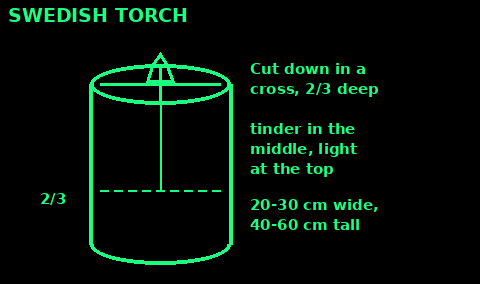
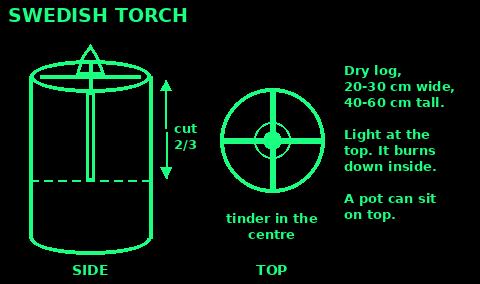
Redraw Swedish torch diagram with side and top views of the cross cut

diff --git a/tools/gen_guide7.py b/tools/gen_guide7.py
@@ -250,16 +250,26 @@ lines(d, 352, 52, ["logs as long", "as you", "", "fire in the gap", "", "eats wo
 save(im, "fire_long")
 
 im, d = new("SWEDISH TORCH")
-E(d, [90, 64, 230, 104], 4)                                                        # top
-L(d, [(90, 84), (90, 244)], 4); L(d, [(230, 84), (230, 244)], 4)
-d.arc([90, 224, 230, 264], 0, 180, fill=G, width=4)
-L(d, [(100, 84), (220, 84)], 3); L(d, [(160, 66), (160, 102)], 3)
-L(d, [(160, 104), (160, 190)], 2); dashed(d, (100, 190), (220, 190), 2)
-flame(d, 160, 82, 30, 14)
-t(d, (250, 60), "Cut down in a", 15); t(d, (250, 80), "cross, 2/3 deep", 15)
-t(d, (250, 120), "tinder in the", 15); t(d, (250, 140), "middle, light", 15); t(d, (250, 160), "at the top", 15)
-t(d, (250, 196), "20-30 cm wide,", 15); t(d, (250, 216), "40-60 cm tall", 15)
-t(d, (40, 190), "2/3", 15)
+# side view: log with the cross cut showing as a slot
+E(d, [30, 60, 150, 92], 4)                                                         # top
+L(d, [(30, 76), (30, 238)], 4); L(d, [(150, 76), (150, 238)], 4)
+d.arc([30, 222, 150, 254], 0, 180, fill=G, width=4)
+L(d, [(40, 76), (140, 76)], 4); L(d, [(90, 62), (90, 90)], 4)                 # cross on top
+d.rectangle([86, 92, 94, 180], outline=G, width=3)                               # cut slot
+dashed(d, (30, 180), (150, 180), 2)
+flame(d, 90, 74, 30, 14)
+arrow(d, (166, 128), (166, 80), 2); arrow(d, (166, 132), (166, 178), 2)
+t(d, (174, 120), "cut", 13); t(d, (174, 136), "2/3", 13)
+t(d, (90, 262), "SIDE", 14, "ma")
+# top view: cross cut, tinder in the centre
+C(d, (272, 140), 52, 4); C(d, (272, 140), 18, 2)
+L(d, [(222, 140), (322, 140)], 6); L(d, [(272, 90), (272, 190)], 6)
+dot(d, (272, 140), 9)
+t(d, (272, 210), "tinder in the", 13, "ma"); t(d, (272, 226), "centre", 13, "ma")
+t(d, (272, 262), "TOP", 14, "ma")
+t(d, (344, 62), "Dry log,", 13); t(d, (344, 78), "20-30 cm wide,", 13); t(d, (344, 94), "40-60 cm tall.", 13)
+t(d, (344, 126), "Light at the", 13); t(d, (344, 142), "top. It burns", 13); t(d, (344, 158), "down inside.", 13)
+t(d, (344, 190), "A pot can sit", 13); t(d, (344, 206), "on top.", 13)
 save(im, "fire_swedish")
 
 im, d = new("KEYHOLE FIRE (top view)")
